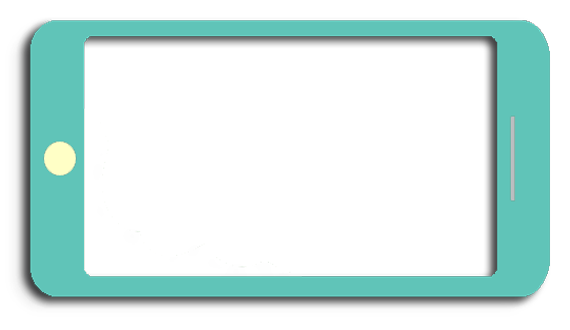
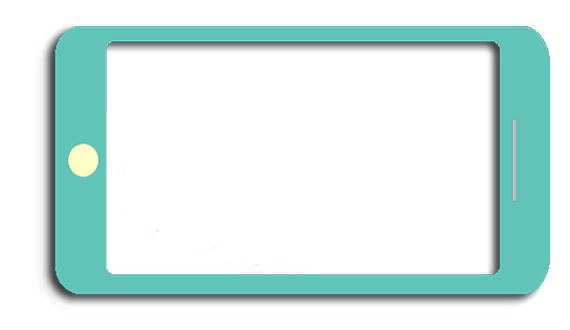
fixing large screen issue

Changed region(s): [[0.0298, 0.0606, 0.9544, 0.9394], [0.9544, 0.1212, 0.9842, 0.1515]]

diff --git a/css/style.css b/css/style.css
@@ -1,20 +1,17 @@
 /* Global */
-#thecontainer{
-	
-margin-left: 0;
-     margin-right: 0;
-     width: 80%;
 
-
-
-	
+body {
+	background-color: #b7dfd4;
+	font-family: 'Asap', serif;
+	font-size: 15px;
+	text-align: center;
 	
 }
 .youtube_zone {
-	width: 550px;
+	width: 650px;
 	height: 300px;
 	margin: 0 auto;
-	padding-left: 80px;
+	padding-left: 89px;
 	padding-top: 33px;
 	overflow: hidden;
 	background-image: url(../images/iphone.png);
@@ -126,13 +123,6 @@ img {
 a img {
 	border: 0;
 }
-body {
-	background-color: #214d58;
-	font-family: 'Asap', serif;
-	font-size: 15px;
-	text-align: center;
-
-}
 a:link {
 	color: #f68f67;
 	text-decoration: none;
@@ -166,14 +156,14 @@ a:visited {
 	color: #fff;
 }
 .s4 {
-	background-image: url(../images/bgUnderwater.png);
+	
 	background-position: center center;
 	background-repeat: no-repeat;
 	background-size: cover;
 	color: #fff;
 }
 .s6 {
-	background-image: url(../images/bgUnderwater.png);
+	
 	background-position: center center;
 	background-repeat: no-repeat;
 	background-size: cover;
@@ -218,7 +208,7 @@ nav#primary {
 	top: 50%;
 	right: 16px;
 	margin-top: -40px;
-	z-index: 5;
+	z-index: 9;
 }
 nav#primary li {
 	position: relative;
@@ -241,7 +231,6 @@ nav#primary h1 {
 	top: -7px;
 	display: none;
 	padding: 4px 20px 4px 7px;
-	;
 	color: #fff;
 	white-space: nowrap;
 	background: transparent url('../images/nav-arrow.png') 100% 50% no-repeat;
@@ -301,7 +290,7 @@ a.next:hover {
 }
 nav {
 	margin-bottom: 0px;
-	z-index: 6;
+	z-index: 7;
 }
 nav#nav-main {
 	background-color: #21a97e;
@@ -464,7 +453,7 @@ nav#nav-mobile {
 	top: 150px;
 	right: -280px;
 	z-index: 1;
-	width: 100%;
+	width: 50%;
 }
 #parallax-bg2 {
 	position: absolute;
@@ -488,13 +477,13 @@ nav#nav-mobile {
 	top: 52px;
 	left: 200px;
 	z-index: 2;
-	width: 100%;
-	height: 100%;
+	width: 60%;
+	height: 60%;
 }
 #parallax-cloudbg3 {
 	position: absolute;
-	top: 700px;
-	left: 350px;
+	top: 683px;
+	left: 110px;
 	z-index: 2;
 	width: 100%;
 	height: 100%;
@@ -503,23 +492,24 @@ nav#nav-mobile {
 	position: absolute;
 	top: 200px;
 	left: 0;
-	z-index: 4;
-	width: 80%;
-	height: 80%;
+	left: -120px;
+	z-index: 3;
+	width: 100%;
+	height: 100%;
 	opacity: 0.5;
 }
 #parallax-fg2 {
 	position: absolute;
 	margin-top: 310px;
-	left: -120px;
-	z-index: 7;
+	left: -100px;
+	z-index: 6;
 	width: 100%;
 	height: 100%;
 }
 #parallax-fg3 {
 	position: absolute;
 	top: 350px;
-	left: 50px;
+	left: -50px;
 	z-index: 3;
 	width: 100%;
 	height: 100%;
@@ -615,12 +605,15 @@ nav#nav-mobile {
 	bottom: 0;
 	right: 0;
 	z-index: 5;
+	width:50%;
+	
 }
 #click2 {
 	position: absolute;
 	bottom: 0;
 	left: 40px;
 	z-index: 5;
+	
 }
 #click3 {
 	position: absolute;
@@ -663,7 +656,7 @@ a img {
 }
  @media all and (max-width: 700px) {
 body {
-	background-color: #214d58;
+	background-color: #b7dfd4;
 }
 .article, menu, nav, section {
 	display: block;
@@ -1055,5 +1048,18 @@ a img {
 	bottom: 0;
 	z-index: 2;
 	width: 50%;
+}
+}
+
+@media all and (max-width: 1200px) {
+#wrapper {
+	position:relative;
+	top: 0;
+	bottom: 0;
+	left: 0;
+	max-width: 1500px;
+    margin: 0 auto;
+	background-color: #b7dfd4;
+	
 }
 }

diff --git a/index.html b/index.html
@@ -221,11 +221,10 @@
 <div id="preloader">
   <div id="status">&nbsp;</div>
 </div>
-
-
-<div id="spaceBg" data-stellar-ratio="1"> <img id="mainBg" src="images/spaceclouds.png" alt="spaceclouds" /> </div>
 <div id="wrapper">
-  <div id="scroller"> 
+  <div id="scroller">
+<div id="spaceBg" data-stellar-ratio="1"> <img id="mainBg" src="images/spaceclouds.png" alt="spaceclouds" /> </div>
+ 
     
     <!--section 1-->
     
@@ -284,9 +283,9 @@
             <div id="c" class="box" data-vp-name="/section 3 Home page"> <img id="homebanner" src="images/homebanner.png" alt="HomeBanner"/>
               <div id="helicopter"> <img src="images/helicopter.png" alt="helicopter"/> </div>
               <div id="parallax-fg2" data-stellar-ratio="2"> <img src="images/cloud4.png" alt="cloud"/> </div>
-              <div id="bus" data-1500="left: 0px;" data-2500="left: 960px;"/>
+              <div id="bus" data-1500="left: 0px;" data-2500="left: 700px;"/>
               <img src="images/bus.png" alt="bus"/> </div>
-            <div id="van" data-1500="left: 960px;" data-2500="left: 0px;"/>
+            <div id="van" data-1500="left: 500px;" data-2500="left: 80px;"/>
             <img src="images/van.png" alt="van"/> </div>
           <div id="boat" data-1500="left: 0px;" data-2500="left: 360px;"/>
           <img src="images/boat.png" alt="boat"/> </div>
@@ -332,12 +331,12 @@
             <div id="shark2" data-2500="left: 560px;" data-3000="left: 150px;"/>
             <img src="images/shark2.png" alt="shark"/> </div>
           <div class="youtube_zone">
-            <object width="315" height="100" scale="tofit">
+            <object width="415" height="100" scale="tofit">
               <param name="video" value="http://www.youtube.com/v/o7nxbULcaH4">
               </param>
               <param name="wmode" value="transparent">
               </param>
-              <embed src="http://www.youtube.com/v/o7nxbULcaH4" type="application/x-shockwave-flash" wmode="transparent" width="420" height="250" scale="tofit"></embed>
+              <embed src="http://www.youtube.com/v/o7nxbULcaH4" type="application/x-shockwave-flash" wmode="transparent" width="410" height="250" scale="tofit"></embed>
             </object>
           </div>
           <div class="video-container">
@@ -368,8 +367,6 @@
 </div>
 </div>
 </div>
-
-
 <script type="text/javascript" src="http://ajax.googleapis.com/ajax/libs/jquery/1.7.2/jquery.min.js"></script> 
 <script type="text/javascript" src="js/jquery.stellar.min.js"></script> 
 <script type="text/javascript" src="js/waypoints.min.js"></script> 

diff --git a/js/scripts.js b/js/scripts.js
@@ -93,7 +93,7 @@ jQuery(function($) {
 	
 	setSkrollr($('#ufo2'), [[0, 'transform:translateX(-100%)'], [750, 'transform:translateX(200%)'], [1500, 'transform:translateX(-100%)']]);
 	
-	setSkrollr($('#plane'), [[0, 'transform:translateX(-100%)'], [750, 'transform:translateX(120%)'], [500, 'transform:translateX(-100%)']]);
+	setSkrollr($('#plane'), [[0, 'transform:translateX(-100%)'], [1750, 'transform:translateX(120%)'], [500, 'transform:translateX(-100%)']]);
     
 	setSkrollr($('#helicopter'), [[0, 'transform:translateX(-100%)'], [2000, 'transform:translateX(100%)'], [0, 'transform:translateX(-100%)']]);
     setSkrollr($('#ufo1'), [[0, 'transform:translateX(-100%)'], [750, 'transform:translateX(100%)'], [1500, 'transform:translateX(-100%)']]);
